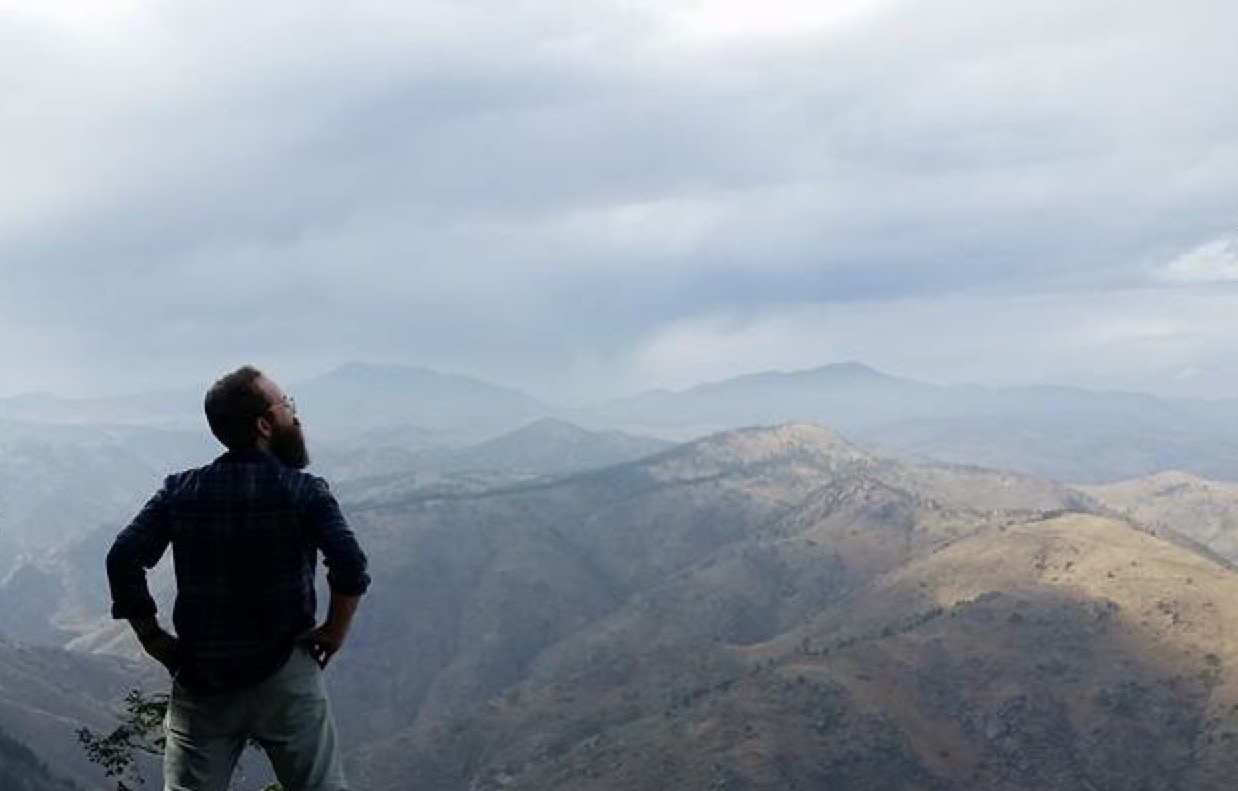
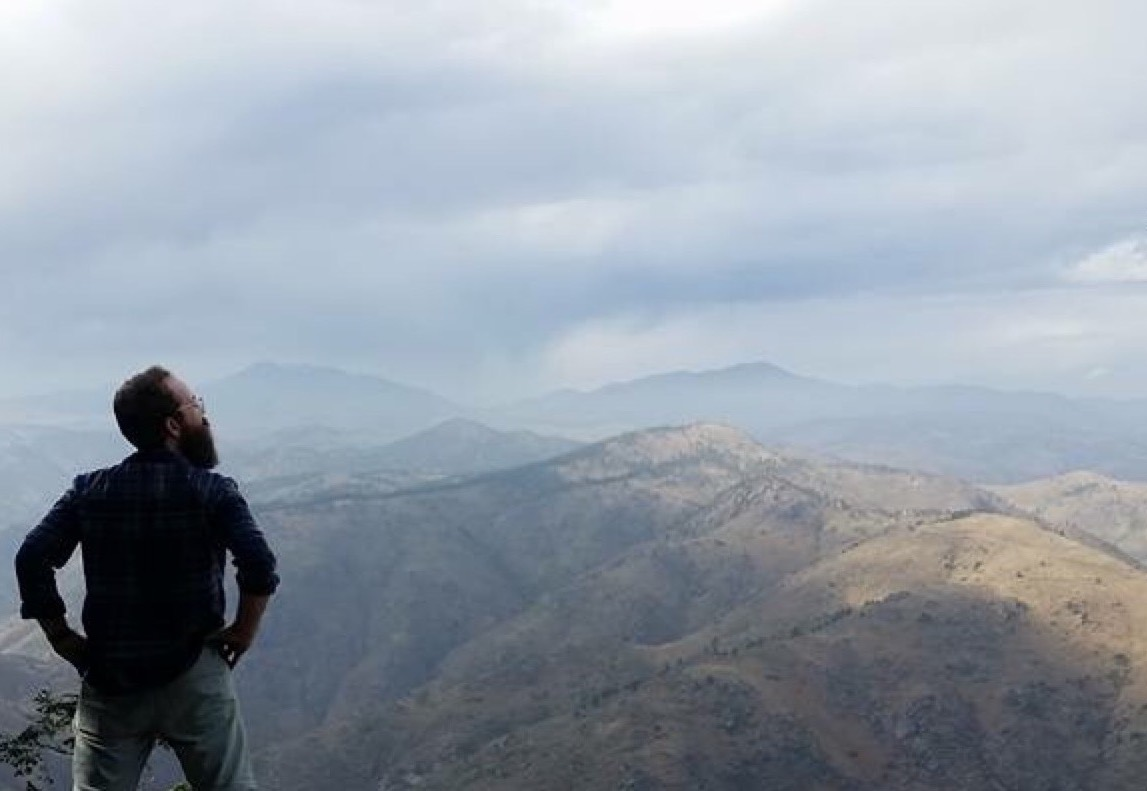
got about with that mountain background. ready for content.

diff --git a/styles.css b/styles.css
@@ -235,25 +235,45 @@ li:hover {
 }
 
 .about-container {
-  text-align: center;
+  /* text-align: center; */
+  position: fixed;
+  top: 0;
   width: 100vw;
   height: 100vh;
-  color: white;
-  background: #252934;
+  padding: 25px 0 0 45px;
+  color: #252934;
+  background: white;
+  border: 3px solid #252934;
+  /* box-shadow: inset 0px 0px 10px #252934; */
 }
 
-.mountain-man-box {
-  padding-top: 75px;
-  height: 90vh;
-  width: 100vw;
-  background-image: url(./MaintainManCroppedMore.jpg);
+.about-title {
+  width: 50vw;
+  /* border: 1px solid #252934; */
+}
+
+.about-heading {
+  font-size: 75px;
+}
+
+.about-box {
+  width: 90vw;
+  height: 75vh;
+  border: 3px solid #252934;
+}
+
+.img-box {
+  width: 100%;
+  height: 100%;
+  background-image: url('./MountainMan1.jpg');
   background-size: cover;
 }
 
-.mountain-man-overlay {
-  height: 100%;
+.img-overlay {
   width: 100%;
-  background: #25293462;
+  height: 100%;
+  background: rgba(255, 255, 255, 0.288);
+  box-shadow: inset 0px 0px 10px #252934;
 }
 
 .portfolio-heading {

diff --git a/index.html b/index.html
@@ -56,10 +56,17 @@
     <div class="body-main-container">
       <div class="about-content">
         <div class="about-container">
-          <!-- <h1 class="about-heading">About Me</h1> -->
-          <div class="mountain-man-box">
-            <div class="mountain-man-overlay">
-              <div class="mountain-man"></div>
+          <div class="about-title">
+            <h1 class="about-heading">About Me</h1>
+            <!-- <hr class="about-underline"> -->
+          </div>
+          <div class="about-box">
+            <div class="img-box">
+              <div class="img-overlay">
+                <div class="left-box"></div>
+                <div class="center-box"></div>
+                <div class="right-box"></div>
+              </div>
             </div>
           </div>
         </div>
